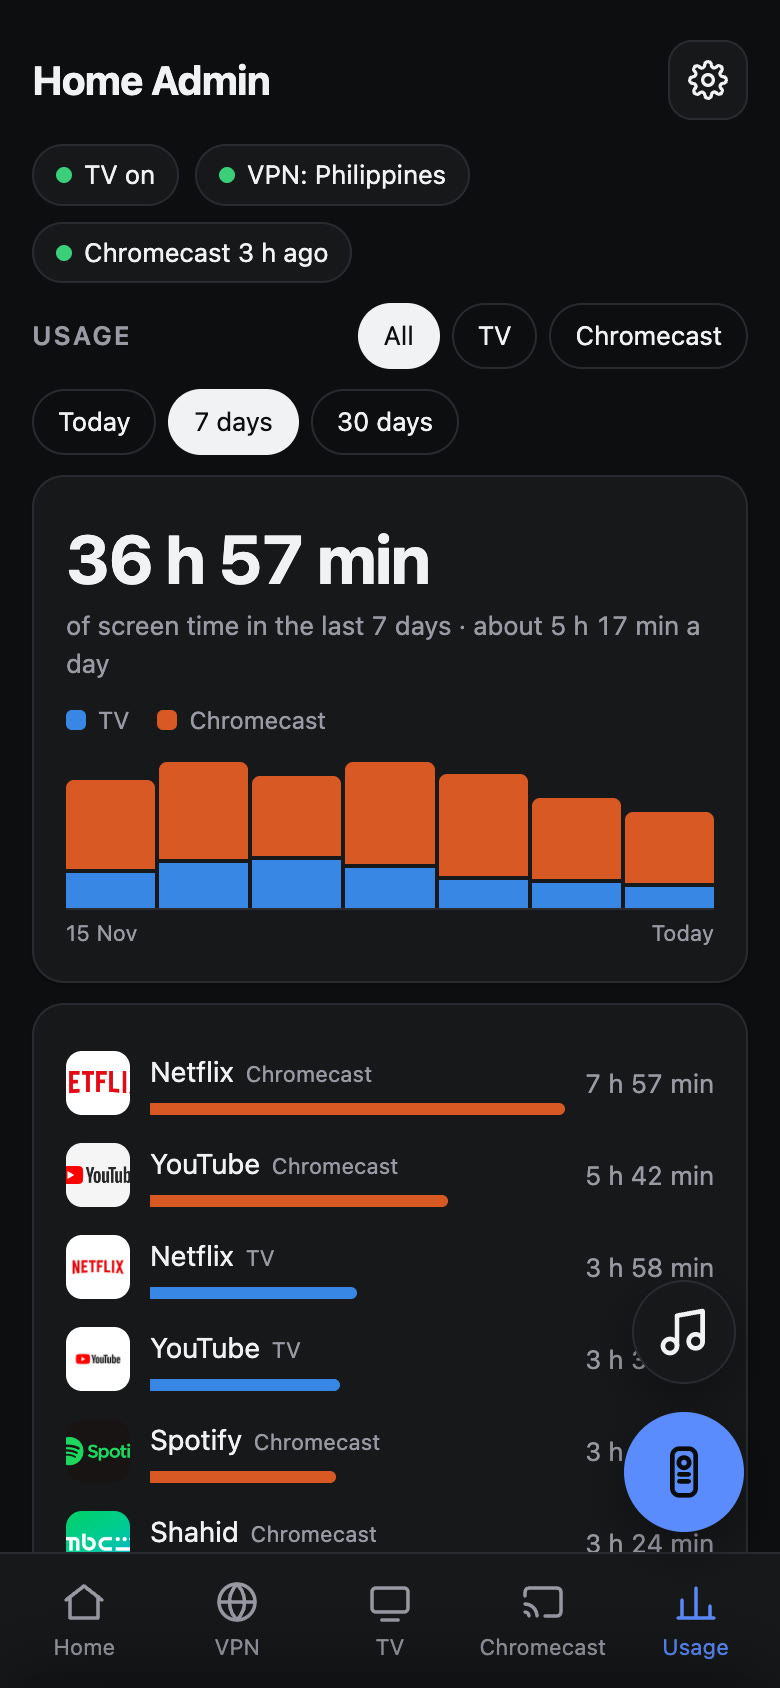
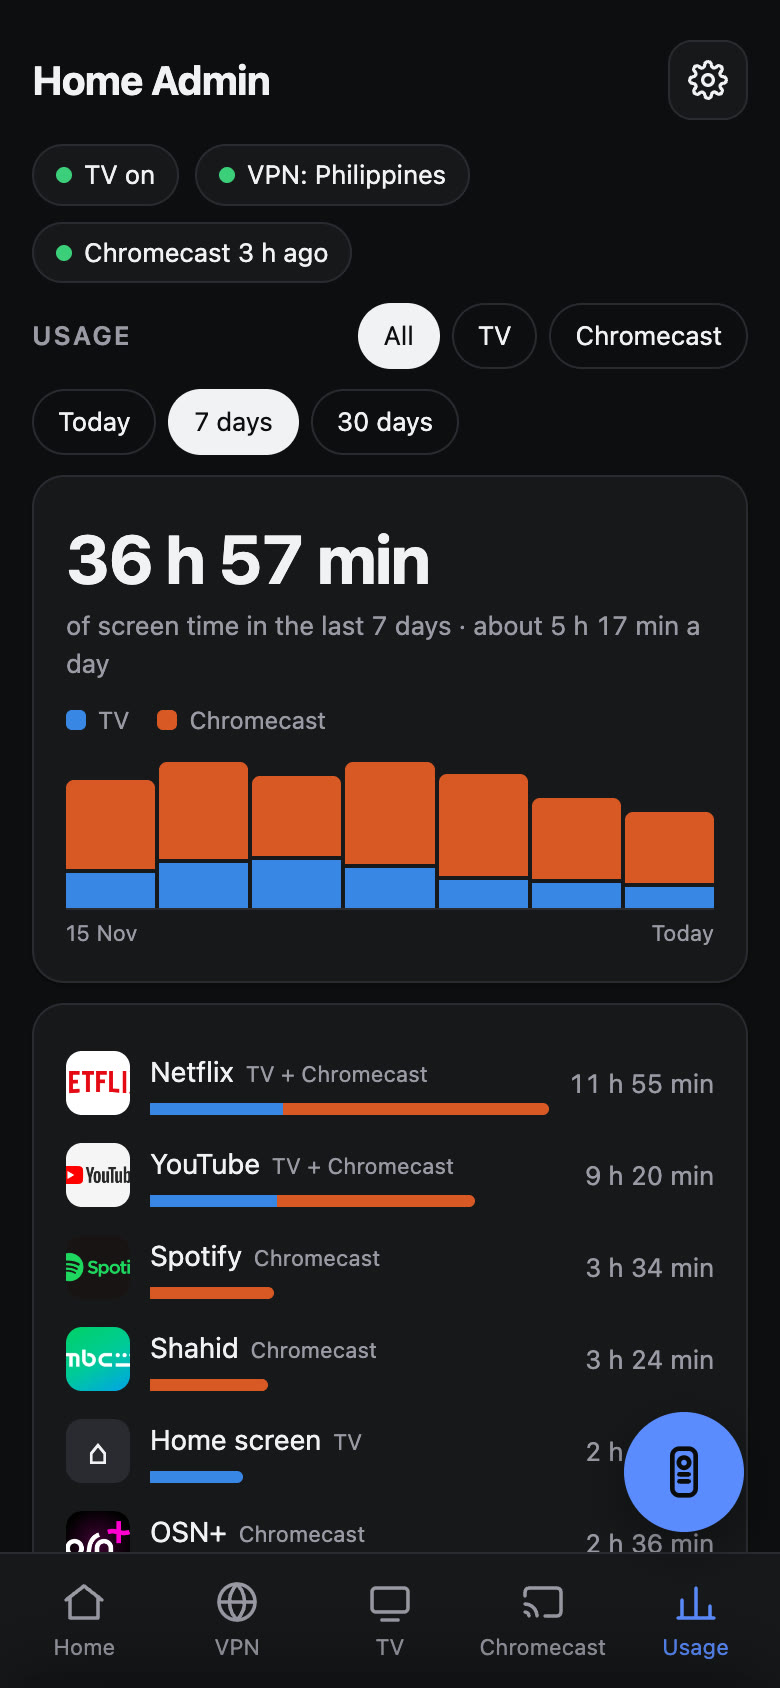
Website: Usage merges the same app across the TV and the Chromecast

diff --git a/index.html b/index.html
@@ -555,7 +555,7 @@ body::before {
         <button type="button" class="pf" aria-pressed="false" data-shot="img/p/player.jpg" data-alt="The player: YouTube playing, with previous, pause and next, and volume"><b>What's playing</b><span>Play, pause and skip, whatever app it's in, with the controls also in your phone's notifications and on the lock screen.</span></button>
         <button type="button" class="pf" aria-pressed="false" data-shot="img/p/vpn.jpg" data-alt="The VPN page: connected to one country, with buttons for Germany, USA, UK, Canada, Egypt, UAE, France and Japan"><b>Switch the country</b><span>One tap moves the TV and the Chromecast to another country's catalogue. Apps can switch by themselves: open OSN+ and it goes to the UAE.</span></button>
         <button type="button" class="pf" aria-pressed="false" data-shot="img/p/tv.jpg" data-alt="Home layouts to choose from: Classic, Liquid OS, Channel Zero, Typography First and more"><b>Pick the Home theme</b><span>Choose one of the 15 layouts for the TV and for the Chromecast. It changes on the screen in seconds.</span></button>
-        <button type="button" class="pf" aria-pressed="false" data-shot="img/p/usage.jpg" data-alt="Usage: 36 hours 57 minutes of screen time in 7 days, a chart per day for the TV and the Chromecast, and the apps used most (example numbers)"><b>Usage</b><span>How long the TV and the Chromecast were on today, this week or this month, which apps took the time, and the shows watched longest. It stays on your computer. <i>(Screenshot with example numbers.)</i></span></button>
+        <button type="button" class="pf" aria-pressed="false" data-shot="img/p/usage.jpg" data-alt="Usage: 36 hours 57 minutes of screen time in 7 days, a chart per day for the TV and the Chromecast, and the apps used most (example numbers)"><b>Usage</b><span>How long the TV and the Chromecast were on today, this week or this month, which apps took the time (Netflix on both counts as one), and the shows watched longest. It stays on your computer. <i>(Screenshot with example numbers.)</i></span></button>
         <button type="button" class="pf" aria-pressed="false" data-shot="img/p/gear.jpg" data-alt="Settings: your name, update right away, 24-hour clock, Automatic Home"><b>Settings</b><span>Your name for the greeting, the 24-hour clock, and whether your Home opens by itself when the TV turns on.</span></button>
       </div>
     </div>
